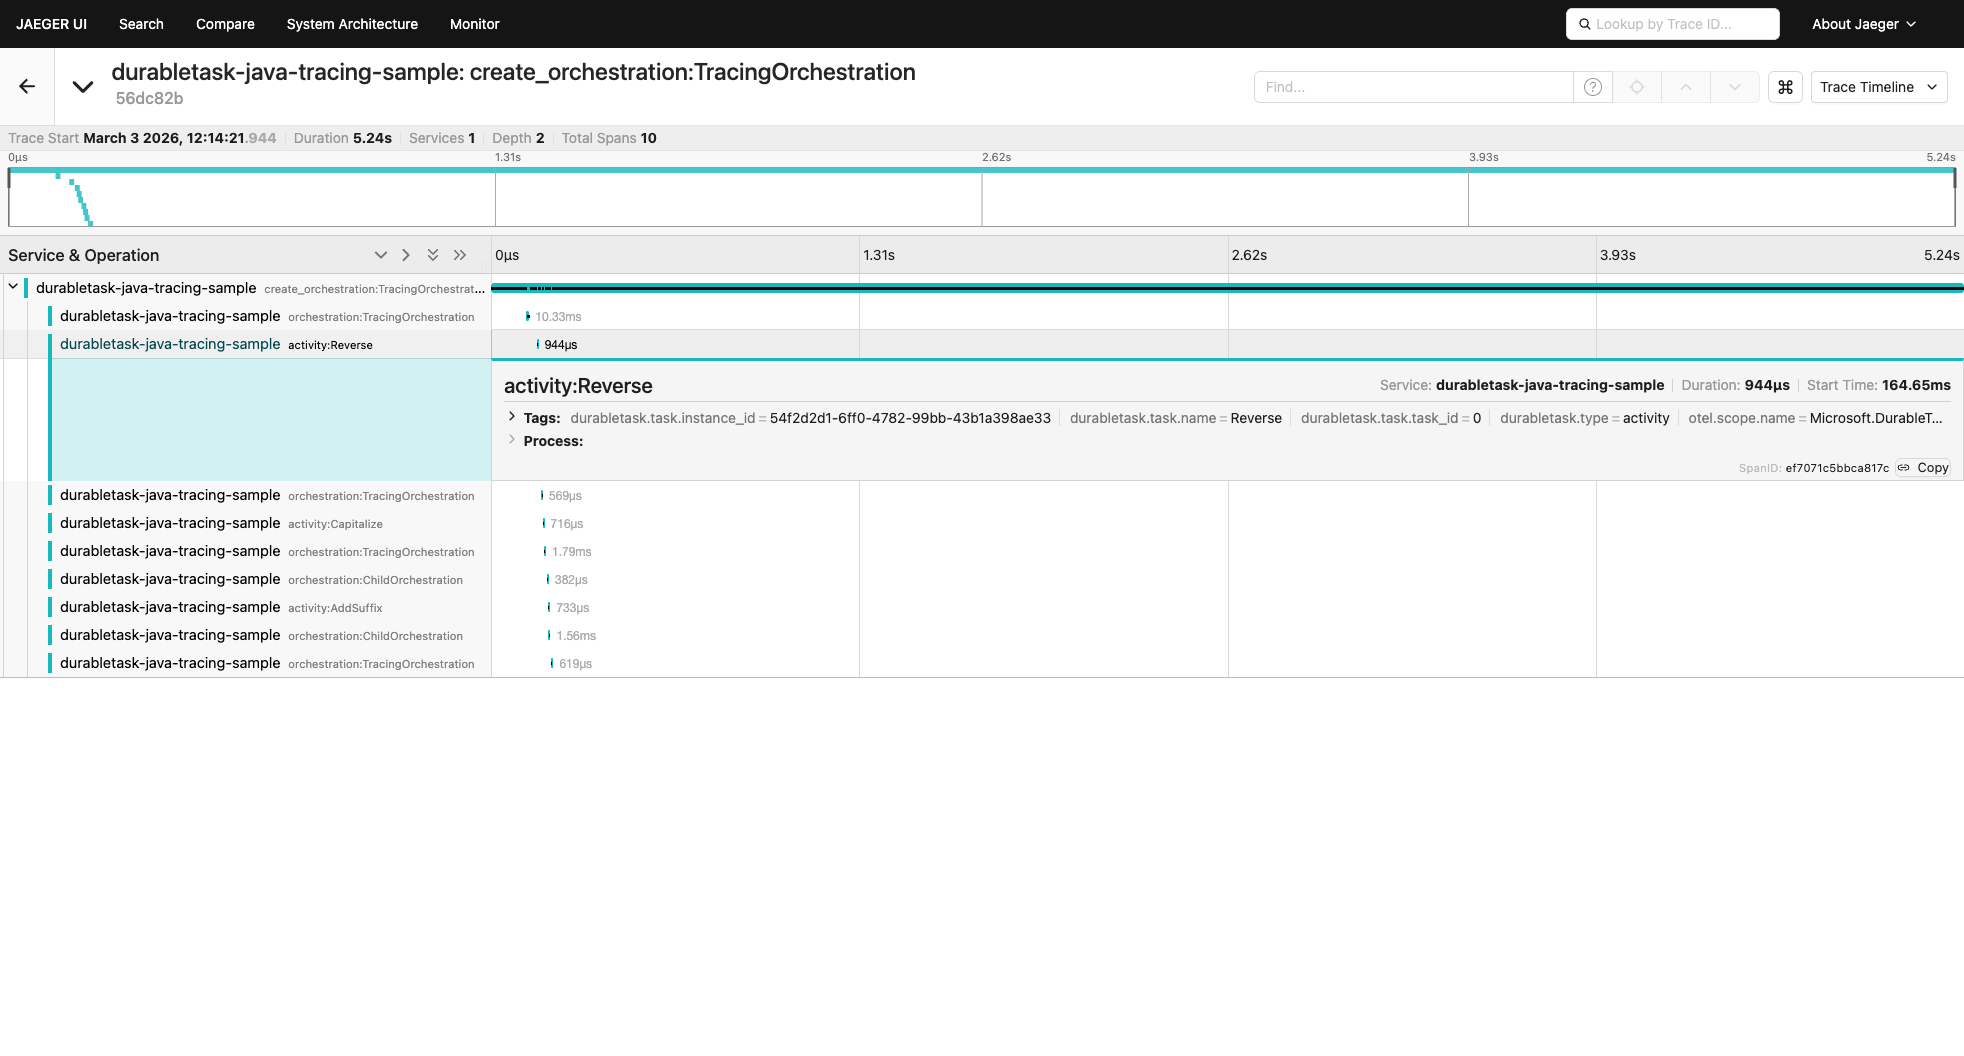
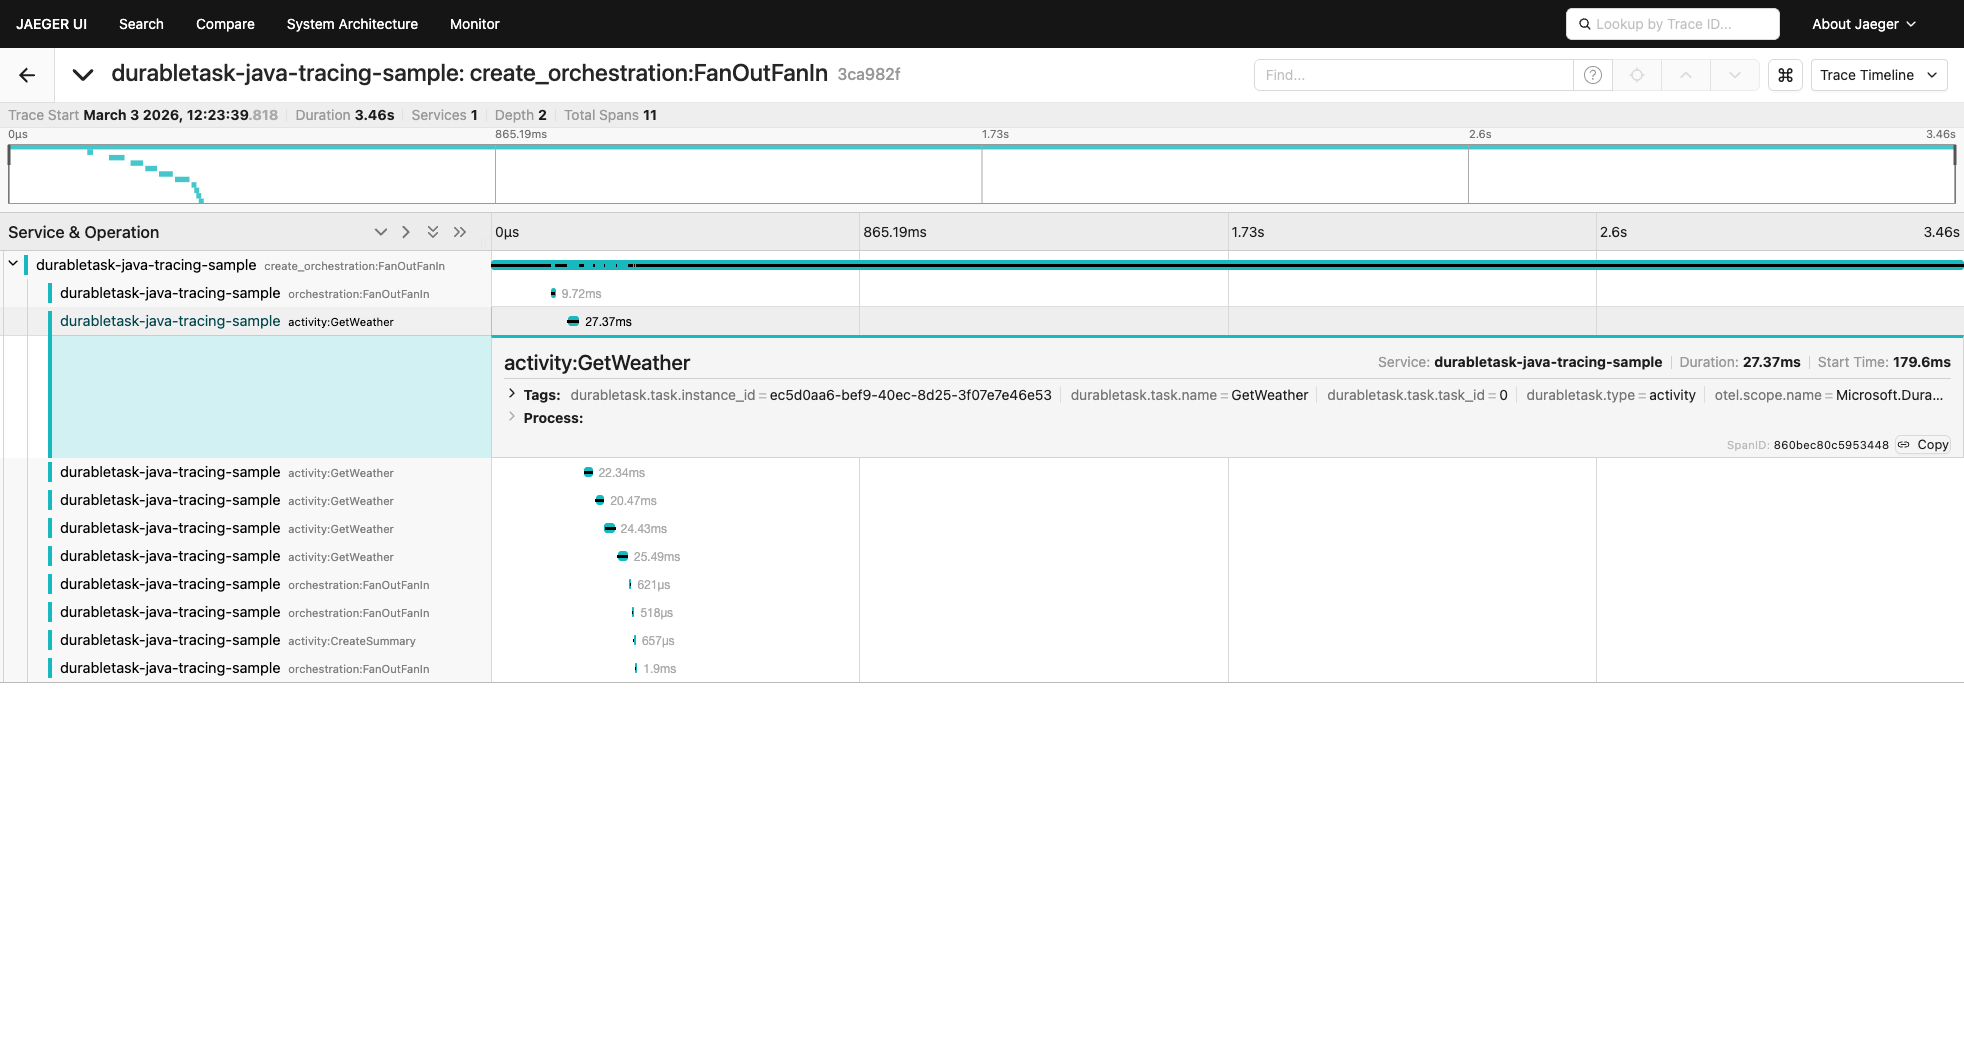
Update sample to FanOutFanIn pattern with fresh screenshots
- Replaced chaining sample with Fan-Out/Fan-In pattern (5× GetWeather + CreateSummary)
- Updated README.md to reflect FanOutFanIn span hierarchy
- Captured updated Jaeger screenshots showing parallel activity spans

diff --git a/samples/src/main/java/io/durabletask/samples/TracingPattern.java b/samples/src/main/java/io/durabletask/samples/TracingPattern.java
@@ -20,6 +20,7 @@ import io.opentelemetry.sdk.trace.export.BatchSpanProcessor;
 
 import java.io.IOException;
 import java.time.Duration;
+import java.util.List;
 import java.util.concurrent.TimeoutException;
 import java.util.logging.Logger;
 
@@ -89,62 +90,48 @@ final class TracingPattern {
                 .createWorkerBuilder(connectionString)
                 .addOrchestration(new TaskOrchestrationFactory() {
                     @Override
-                    public String getName() { return "TracingOrchestration"; }
+                    public String getName() { return "FanOutFanIn"; }
 
                     @Override
                     public TaskOrchestration create() {
                         return ctx -> {
-                            String input = ctx.getInput(String.class);
-                            // Trace context is automatically propagated to activities via parentTraceContext
-                            String reversed = ctx.callActivity("Reverse", input, String.class).await();
-                            String upper = ctx.callActivity("Capitalize", reversed, String.class).await();
-                            // Sub-orchestration also receives the trace context
-                            String result = ctx.callSubOrchestrator(
-                                    "ChildOrchestration", upper, String.class).await();
-                            ctx.complete(result);
-                        };
-                    }
-                })
-                .addOrchestration(new TaskOrchestrationFactory() {
-                    @Override
-                    public String getName() { return "ChildOrchestration"; }
+                            // Fan-out: schedule multiple parallel activities
+                            List<Task<String>> parallelTasks = new java.util.ArrayList<>();
+                            String[] cities = {"Seattle", "Tokyo", "London", "Paris", "Sydney"};
+                            for (String city : cities) {
+                                parallelTasks.add(
+                                    ctx.callActivity("GetWeather", city, String.class));
+                            }
 
-                    @Override
-                    public TaskOrchestration create() {
-                        return ctx -> {
-                            String input = ctx.getInput(String.class);
-                            String result = ctx.callActivity("AddSuffix", input, String.class).await();
-                            ctx.complete(result);
+                            // Fan-in: wait for all activities to complete
+                            List<String> results = ctx.allOf(parallelTasks).await();
+
+                            // Aggregate results
+                            String summary = ctx.callActivity(
+                                    "CreateSummary", String.join(", ", results), String.class).await();
+
+                            ctx.complete(summary);
                         };
                     }
                 })
                 .addActivity(new TaskActivityFactory() {
-                    @Override public String getName() { return "Reverse"; }
+                    @Override public String getName() { return "GetWeather"; }
                     @Override public TaskActivity create() {
                         return ctx -> {
-                            String input = ctx.getInput(String.class);
-                            logger.info("[Reverse] Processing: " + input);
-                            return new StringBuilder(input).reverse().toString();
+                            String city = ctx.getInput(String.class);
+                            logger.info("[GetWeather] Getting weather for: " + city);
+                            try { Thread.sleep(20); } catch (InterruptedException e) { Thread.currentThread().interrupt(); }
+                            return city + "=72F";
                         };
                     }
                 })
                 .addActivity(new TaskActivityFactory() {
-                    @Override public String getName() { return "Capitalize"; }
+                    @Override public String getName() { return "CreateSummary"; }
                     @Override public TaskActivity create() {
                         return ctx -> {
                             String input = ctx.getInput(String.class);
-                            logger.info("[Capitalize] Processing: " + input);
-                            return input.toUpperCase();
-                        };
-                    }
-                })
-                .addActivity(new TaskActivityFactory() {
-                    @Override public String getName() { return "AddSuffix"; }
-                    @Override public TaskActivity create() {
-                        return ctx -> {
-                            String input = ctx.getInput(String.class);
-                            logger.info("[AddSuffix] Processing: " + input);
-                            return input + "-traced";
+                            logger.info("[CreateSummary] Creating summary for: " + input);
+                            return "Weather Report: " + input;
                         };
                     }
                 })
@@ -160,8 +147,8 @@ final class TracingPattern {
                 .createClientBuilder(connectionString).build();
 
         // Create a parent span — the SDK automatically propagates W3C trace context
-        Span orchestrationSpan = tracer.spanBuilder("create_orchestration:TracingOrchestration")
-                .setAttribute("durabletask.task.name", "TracingOrchestration")
+        Span orchestrationSpan = tracer.spanBuilder("create_orchestration:FanOutFanIn")
+                .setAttribute("durabletask.task.name", "FanOutFanIn")
                 .setAttribute("durabletask.type", "orchestration")
                 .startSpan();
 
@@ -169,10 +156,10 @@ final class TracingPattern {
 
         String instanceId;
         try (Scope scope = orchestrationSpan.makeCurrent()) {
-            logger.info("Scheduling orchestration...");
+            logger.info("Scheduling FanOutFanIn orchestration...");
             instanceId = client.scheduleNewOrchestrationInstance(
-                    "TracingOrchestration",
-                    new NewOrchestrationInstanceOptions().setInput("Hello, tracing!"));
+                    "FanOutFanIn",
+                    new NewOrchestrationInstanceOptions().setInput("weather-request"));
             orchestrationSpan.setAttribute("durabletask.task.instance_id", instanceId);
             logger.info("Started orchestration: " + instanceId);
         }

diff --git a/samples/README.md b/samples/README.md
@@ -39,31 +39,29 @@ docker run -d --name jaeger \
 
 ## What the Sample Does
 
-The `TracingPattern` sample:
+The `TracingPattern` sample demonstrates the **Fan-Out/Fan-In** pattern with distributed tracing:
 
 1. Configures OpenTelemetry with an OTLP exporter pointing to Jaeger
 2. Connects a worker and client to the DTS emulator using a connection string
-3. Creates a parent span (`create_orchestration:TracingOrchestration`) and schedules an orchestration
-4. The orchestration chains three activities (`Reverse`, `Capitalize`, `AddSuffix`) and a sub-orchestration (`ChildOrchestration`)
+3. Creates a parent span (`create_orchestration:FanOutFanIn`) and schedules an orchestration
+4. The orchestration fans out 5 parallel `GetWeather` activities (Seattle, Tokyo, London, Paris, Sydney), fans in the results, then calls `CreateSummary` to aggregate
 5. The SDK automatically propagates trace context through the full execution chain
 
 ## Screenshots
 
 ### Jaeger — Trace Search Results
 
-Shows the trace from `durabletask-java-tracing-sample` service with 10 spans covering the full orchestration lifecycle.
+Shows the trace from `durabletask-java-tracing-sample` service with spans covering the full fan-out/fan-in orchestration lifecycle.
 
 ![Jaeger trace search results](images/jaeger-trace-list-full.png)
 
 ### Jaeger — Trace Detail
 
-Full span hierarchy showing parent-child relationships:
-- `create_orchestration:TracingOrchestration` (parent)
-  - `orchestration:TracingOrchestration` (orchestration replays)
-    - `activity:Reverse`
-    - `activity:Capitalize`
-  - `orchestration:ChildOrchestration` (sub-orchestration)
-    - `activity:AddSuffix`
+Full span hierarchy showing the fan-out/fan-in pattern:
+- `create_orchestration:FanOutFanIn` (parent)
+  - `orchestration:FanOutFanIn` (orchestration execution)
+    - `activity:GetWeather` ×5 (parallel fan-out)
+    - `activity:CreateSummary` (fan-in aggregation)
 
 ![Jaeger trace detail](images/jaeger-full-trace-detail.png)
 
@@ -71,7 +69,7 @@ Full span hierarchy showing parent-child relationships:
 
 Activity span showing attributes aligned with the .NET SDK schema:
 - `durabletask.type=activity`
-- `durabletask.task.name=Reverse`
+- `durabletask.task.name=GetWeather`
 - `durabletask.task.instance_id=<orchestrationId>`
 - `durabletask.task.task_id=0`
 - `otel.scope.name=Microsoft.DurableTask`
@@ -81,7 +79,7 @@ Activity span showing attributes aligned with the .NET SDK schema:
 
 ### DTS Dashboard — Completed Orchestrations
 
-Both `TracingOrchestration` and `ChildOrchestration` completed successfully.
+The `FanOutFanIn` orchestration completed successfully with all activities.
 
 ![DTS Dashboard](images/dts-dashboard-completed.png)
 
